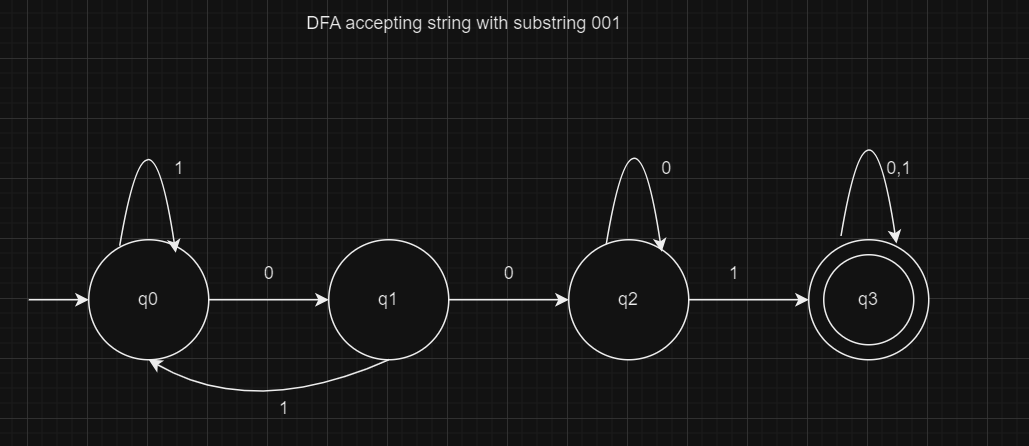
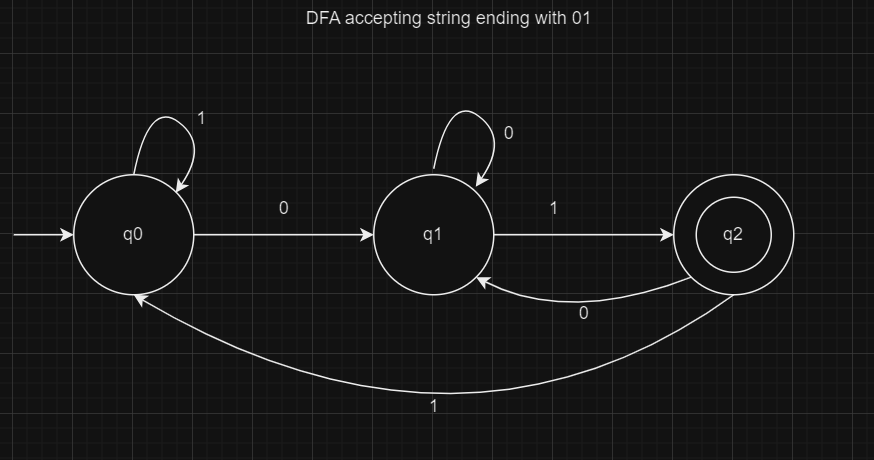
Final

diff --git a/LAB2/2.c b/LAB2/2.c
@@ -1,10 +1,9 @@
-// WAP to implement DFA that accepts the string having the substring as 001 oven an alphabet E={0,1}
-
+// WAP to implement DFA that accepts all the strings ending with 01.
 #include <stdio.h>
 #include <string.h>
 
 // Function to simulate the DFA
-int DFA_accepts_substring_001(char *str) {
+int DFA_accepts_end_01(char *str) {
     int state = 0;  // Start state is q0
 
     for (int i = 0; i < strlen(str); i++) {
@@ -14,33 +13,34 @@ int DFA_accepts_substring_001(char *str) {
         case 0:  // q0 state
             if (current == '0') {
                 state = 1;  // Move to q1
+            } else {
+                state = 0;  // Stay in q0
             }
-            // Stay in q0 for '1'
             break;
 
         case 1:  // q1 state
             if (current == '0') {
-                state = 2;  // Move to q2
+                state = 1;  // Stay in q1
+            } else if (current == '1') {
+                state = 2;  // Move to q2 (valid ending "01")
+            }
+            break;
+
+        case 2:  // q2 state (accepting state)
+            if (current == '0') {
+                state = 1;  // Move to q1
             } else {
-                state = 0;  // Go back to q0 on '1'
+                state = 0;  // Go back to q0
             }
             break;
 
-        case 2:  // q2 state
-            if (current == '1') {
-                state = 3;  // Move to q3 (substring "001" found)
-            }
-            // Stay in q2 for '0'
-            break;
-
-        case 3:  // q3 state (accepting state)
-            // Stay in q3 regardless of input, substring "001" found
-            return 1;
+        default:
+            return 0;  // If in a dead state, reject
         }
     }
 
-    // Accept only if the final state is q3
-    return state == 3;
+    // Accept if the final state is q2 (ends with "01")
+    return state == 2;
 }
 
 int main() {
@@ -49,10 +49,10 @@ int main() {
     printf("Enter a binary string: ");
     scanf("%s", input);
 
-    if (DFA_accepts_substring_001(input)) {
-        printf("The string is accepted by the DFA (contains substring 001).\n");
+    if (DFA_accepts_end_01(input)) {
+        printf("The string is accepted by the DFA (ends with 01).\n");
     } else {
-        printf("The string is rejected by the DFA (does not contain substring 001).\n");
+        printf("The string is rejected by the DFA (does not end with 01).\n");
     }
 
     return 0;

diff --git a/LAB2/1.c b/LAB2/1.c
@@ -1,9 +1,10 @@
-// WAP to implement DFA that accepts all the strings ending with 01.
+// WAP to implement DFA that accepts the strings starting with 01.
+
 #include <stdio.h>
 #include <string.h>
 
 // Function to simulate the DFA
-int DFA_accepts_end_01(char *str) {
+int DFA_accepts_01(char *str) {
     int state = 0;  // Start state is q0
 
     for (int i = 0; i < strlen(str); i++) {
@@ -14,45 +15,41 @@ int DFA_accepts_end_01(char *str) {
             if (current == '0') {
                 state = 1;  // Move to q1
             } else {
-                state = 0;  // Stay in q0
+                state = -1;  // Move to dead state
             }
             break;
 
         case 1:  // q1 state
-            if (current == '0') {
-                state = 1;  // Stay in q1
-            } else if (current == '1') {
-                state = 2;  // Move to q2 (valid ending "01")
+            if (current == '1') {
+                state = 2;  // Move to q2
+            } else {
+                state = -1;  // Move to dead state
             }
             break;
 
         case 2:  // q2 state (accepting state)
-            if (current == '0') {
-                state = 1;  // Move to q1
-            } else {
-                state = 0;  // Go back to q0
-            }
+            // Once in q2, remain in q2 for any input
             break;
 
-        default:
-            return 0;  // If in a dead state, reject
+        default:  // Dead state
+            return 0;  // Reject the string
         }
     }
 
-    // Accept if the final state is q2 (ends with "01")
+    // Accept if the final state is q2
     return state == 2;
 }
 
 int main() {
-    char input[100];
+    char input[10];
 
     printf("Enter a binary string: ");
     scanf("%s", input);
 
-    if (DFA_accepts_end_01(input)) {
-        printf("The string is accepted by the DFA (ends with 01).\n");
+    if (DFA_accepts_01(input)) {
+        printf("The string is accepted by the DFA (starts with 01).\n");
     } else {
-        printf("The string is rejected by the DFA (does not end with 01).\n");
+        printf("The string is rejected by the DFA (does not start with 01).\n");
     }
 
     return 0;

diff --git a/LAB2/3.c b/LAB2/3.c
@@ -1,0 +1,59 @@
+// WAP to implement DFA that accepts the string having the substring as 001 oven an alphabet E={0,1}
+
+#include <stdio.h>
+#include <string.h>
+
+// Function to simulate the DFA
+int DFA_accepts_substring_001(char *str) {
+    int state = 0;  // Start state is q0
+
+    for (int i = 0; i < strlen(str); i++) {
+        char current = str[i];
+
+        switch (state) {
+        case 0:  // q0 state
+            if (current == '0') {
+                state = 1;  // Move to q1
+            }
+            // Stay in q0 for '1'
+            break;
+
+        case 1:  // q1 state
+            if (current == '0') {
+                state = 2;  // Move to q2
+            } else {
+                state = 0;  // Go back to q0 on '1'
+            }
+            break;
+
+        case 2:  // q2 state
+            if (current == '1') {
+                state = 3;  // Move to q3 (substring "001" found)
+            }
+            // Stay in q2 for '0'
+            break;
+
+        case 3:  // q3 state (accepting state)
+            // Stay in q3 regardless of input, substring "001" found
+            return 1;
+        }
+    }
+
+    // Accept only if the final state is q3
+    return state == 3;
+}
+
+int main() {
+    char input[100];
+
+    printf("Enter a binary string: ");
+    scanf("%s", input);
+
+    if (DFA_accepts_substring_001(input)) {
+        printf("The string is accepted by the DFA (contains substring 001).\n");
+    } else {
+        printf("The string is rejected by the DFA (does not contain substring 001).\n");
+    }
+
+    return 0;
+}
